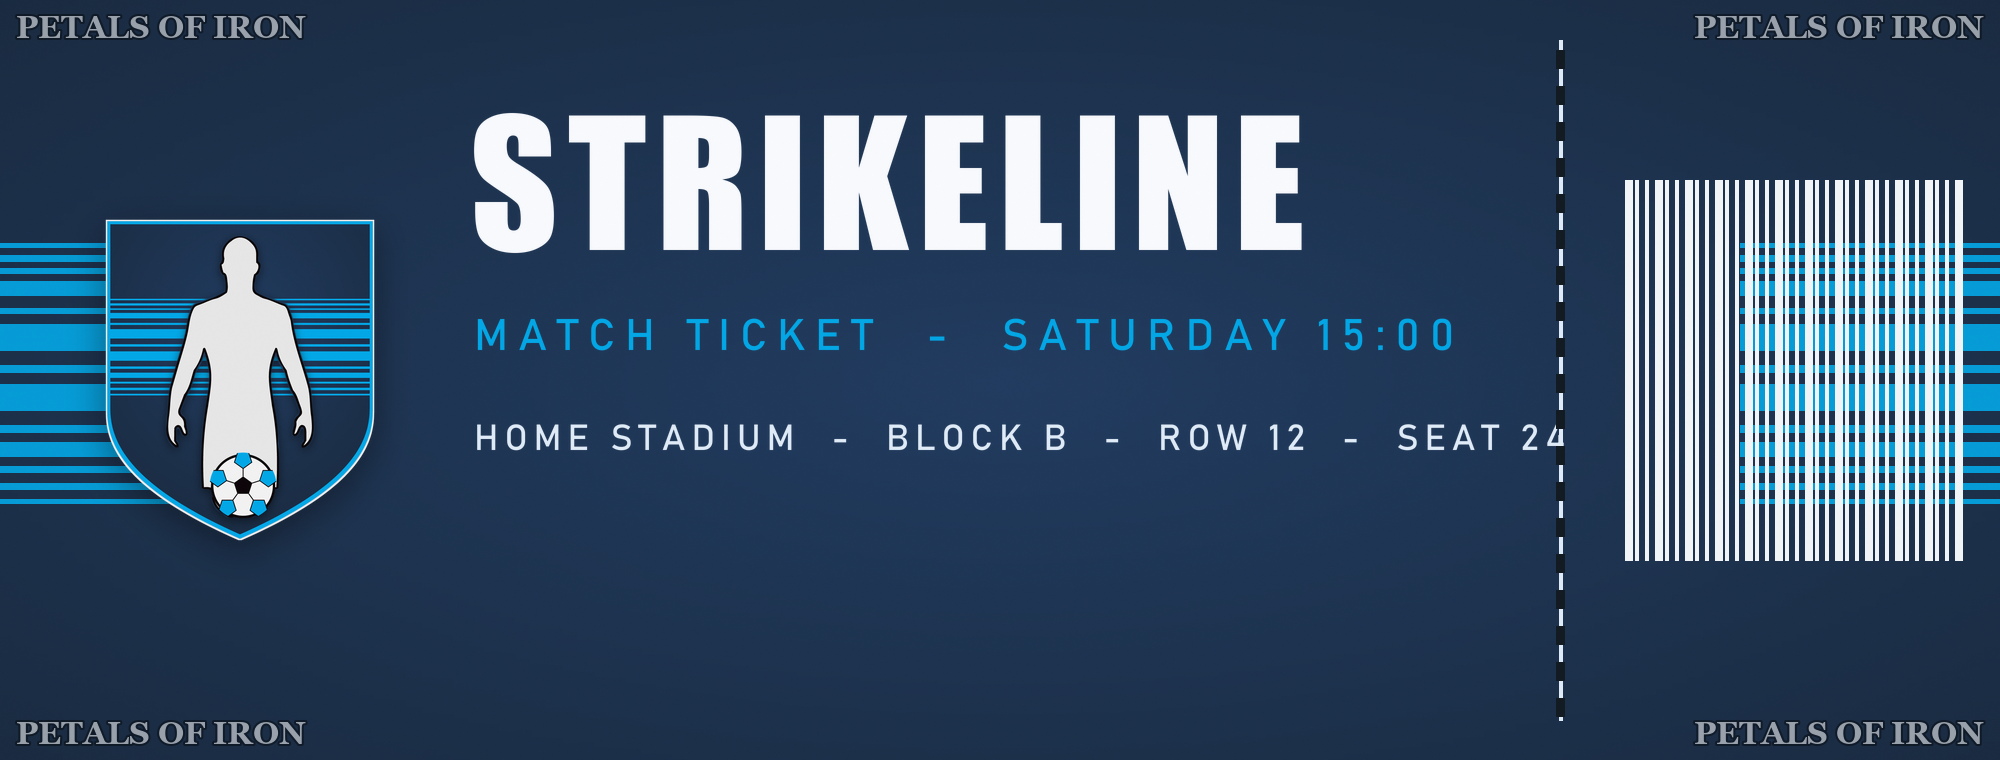
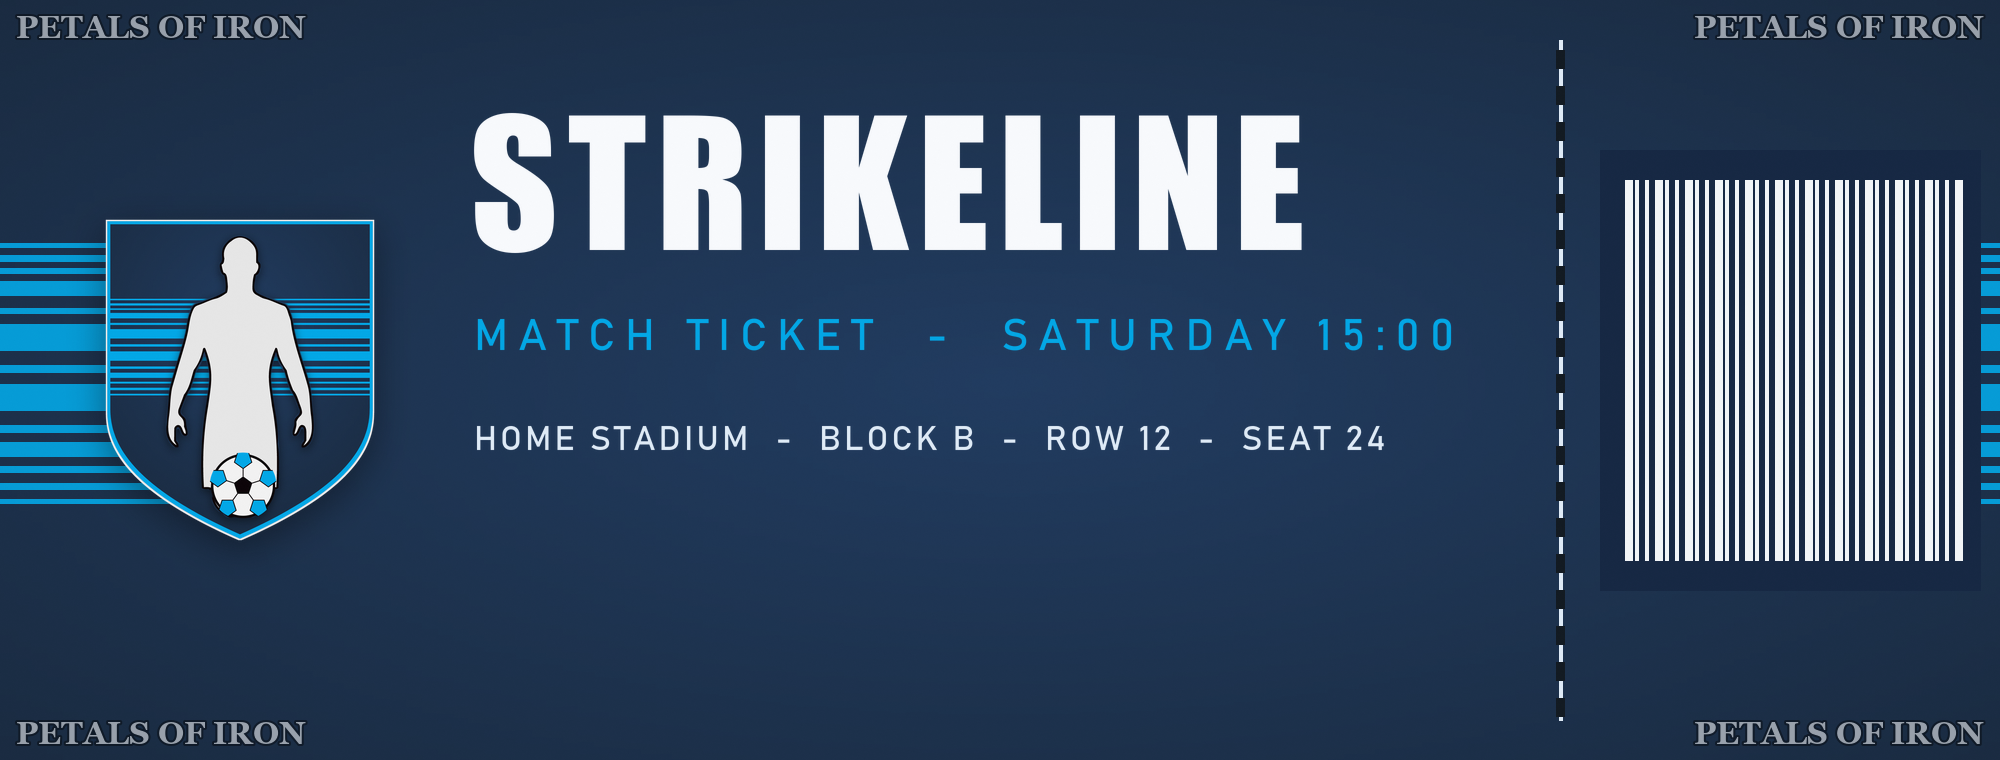
Fix Strikeline ticket: barcode no longer overlaps stripes, seat line clears the tear line

Changed region(s): [[0.868, 0.3026, 0.992, 0.6658], [0.248, 0.5447, 0.775, 0.6053]]

diff --git a/index.html b/index.html
@@ -5172,7 +5172,7 @@
       <a class="proj-btn" href="images/design/Football/football_slide_title.png?v=e620ad7d" target="_blank" rel="noopener" title="Football slide title">Football slide title</a>
       <a class="proj-btn" href="images/design/Football/football_story.png?v=83ccdd2d" target="_blank" rel="noopener" title="Football story">Football story</a>
       <a class="proj-btn" href="images/design/Football/football_thank_you_card.png?v=9c28a011" target="_blank" rel="noopener" title="Football thank you card">Football thank you card</a>
-      <a class="proj-btn" href="images/design/Football/football_ticket.png?v=c2688988" target="_blank" rel="noopener" title="Football ticket">Football ticket</a>
+      <a class="proj-btn" href="images/design/Football/football_ticket.png?v=a459864c" target="_blank" rel="noopener" title="Football ticket">Football ticket</a>
       <a class="proj-btn" href="images/design/Football/football_wordmark.png?v=40ee9549" target="_blank" rel="noopener" title="Football wordmark">Football wordmark</a>
       <a class="proj-btn" href="images/Football.png?v=75cda9a1" target="_blank" rel="noopener" title="Football banner plain">Football banner plain</a>
     </div>

diff --git a/tools/make_football.py b/tools/make_football.py
@@ -340,11 +340,12 @@ def ticket(em, wm):
     img = put(img, fit(em, 300, 340), center=(240, H / 2), shadow_op=0.4)
     img = text(img, NAME, (470, 250), font("impact.ttf", 170), (250, 252, 255), track=10)
     img = text(img, "MATCH TICKET  -  SATURDAY 15:00", (474, 350), font("bahnschrift.ttf", 44), CYAN, track=10)
-    img = text(img, "HOME STADIUM  -  BLOCK B  -  ROW 12  -  SEAT 24", (474, 450), font("bahnschrift.ttf", 36), (226, 238, 250), track=6)
+    img = text(img, "HOME STADIUM  -  BLOCK B  -  ROW 12  -  SEAT 24", (474, 450), font("bahnschrift.ttf", 34), (226, 238, 250), track=3)
     d = ImageDraw.Draw(img)
     d.line([(1560, 40), (1560, H - 40)], fill=(226, 238, 250, 160), width=4)
     for y in range(50, H - 50, 36):
         d.rectangle((1556, y, 1564, y + 18), fill=(16, 24, 32, 255))
+    d.rectangle((1600, 150, 1980, 590), fill=(20, 38, 66, 255))  # solid panel so the corner stripes never show through the barcode
     for i in range(34):  # simple barcode
         x = 1625 + i * 10
         d.rectangle((x, 180, x + (3 if i % 3 else 7), 560), fill=(244, 247, 250, 255))
